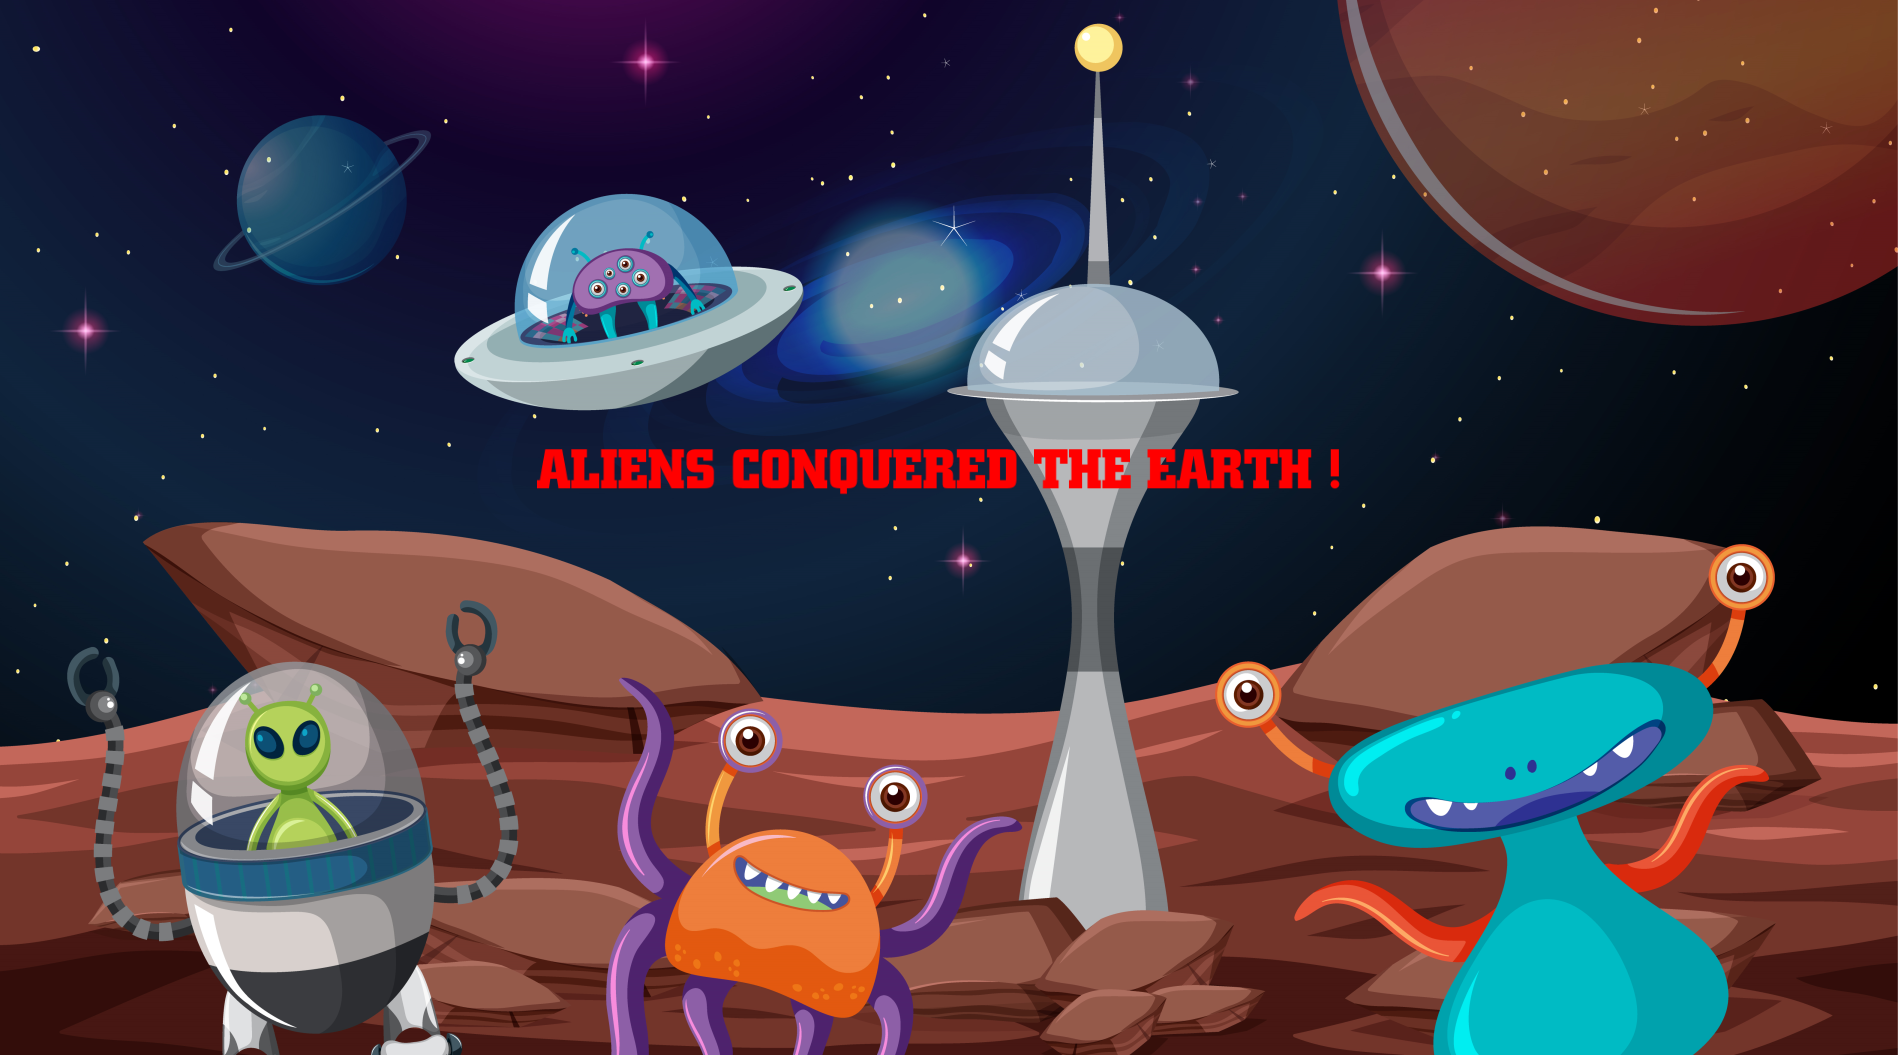
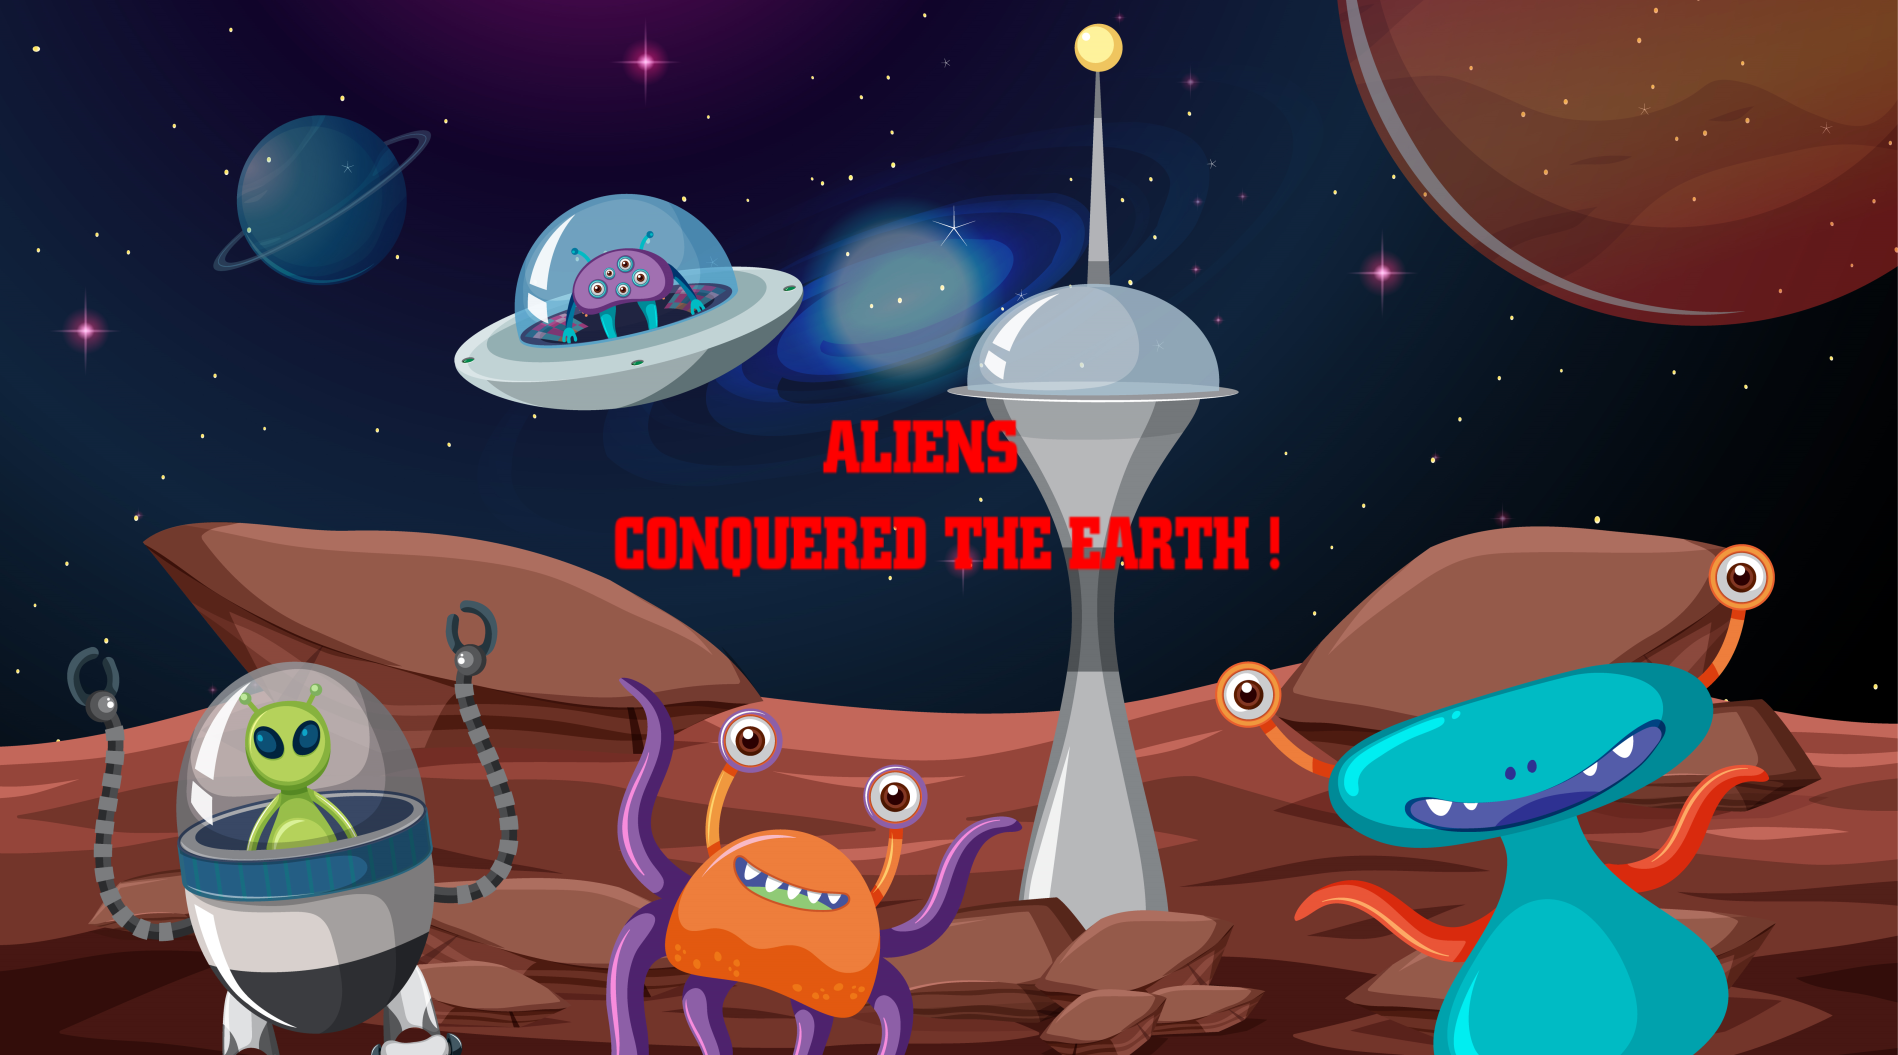
mobile adaptation

Changed region(s): [[0.2798, 0.3943, 0.715, 0.546]]

diff --git a/src/components/Final.js b/src/components/Final.js
@@ -9,14 +9,14 @@ function Final(props) {
         <>
             {props.final === 'win' && 
                 <Fade top>
-                    <div style={{ width: 800 / coeff, height: 450, borderRadius: 10, backgroundImage: `url(../../images/win.png)`,
-                    backgroundSize: 'cover', backgroundPosition: 'top center', position: 'absolute', top: -490, left: 50 / coeff}}></div>
+                    <div style={{ width: 680 / coeff, height: 450, borderRadius: 10, backgroundImage: `url(../../images/win.png)`,
+                    backgroundSize: 'cover', backgroundPosition: 'top center', position: 'absolute', top: -490, left: 20 / coeff}}></div>
                 </Fade>}
             
             {props.final === 'loose' && 
                 <Fade top>
-                    <div style={{ width: 800 / coeff, height: 450, borderRadius: 10, backgroundImage: `url(../../images/loose.png)`,
-                    backgroundSize: 'cover', backgroundPosition: 'center center', position: 'absolute', top: -490, left: 50 / coeff}}></div>
+                    <div style={{ width: 680 / coeff, height: 450, borderRadius: 10, backgroundImage: `url(../../images/loose.png)`,
+                    backgroundSize: 'cover', backgroundPosition: 'center center', position: 'absolute', top: -490, left: 20 / coeff}}></div>
                 </Fade>}
         </>        
     );

diff --git a/src/components/Engine.js b/src/components/Engine.js
@@ -26,7 +26,7 @@ export function Engine() {
     let lifes = 5; 
 
     // Window adaptation    
-    window.innerWidth < 900 ? dispatch(setCoeff(2)) : dispatch(setCoeff(1));    
+    window.innerWidth < 800 ? dispatch(setCoeff(2)) : dispatch(setCoeff(1));    
     
     // Aliens appear
     const aliensStart = () => {
@@ -110,9 +110,9 @@ export function Engine() {
     destroyMissilesArray.length > 0 && missilesDestroy(destroyMissilesArray);      
 
     return (
-        <div style={{ margin: '0 auto', position: 'relative', width: '900px' }}>                                      
+        <div style={{ margin: '0 auto', position: 'relative', width: 720 / coeff }}>                                      
             {pending && 
-                <h1 className='start' style={{ position: 'absolute', top: -500, left: 625 - 225 * coeff, fontSize: 48, color: 'red', zIndex: 10 }} 
+                <h1 className='start' style={{ position: 'absolute', top: -500, left: 490 - 180 * coeff, fontSize: 48, color: 'red', zIndex: 10 }} 
                 onClick={() => aliensStart()}>Start</h1>              
             }
 

diff --git a/src/components/Score.js b/src/components/Score.js
@@ -6,13 +6,13 @@ function Score() {
     const coeff = useSelector((state) => state.adaptive.value);
 
     return (
-        <>
+        <div style={{ margin: '0 auto', width: 720 / coeff }}>
             <div className='title' style={{ marginTop: 10, textAlign: 'center', fontSize: 36, fontWeight: 'bold' }}>ALIEN ATTACK</div>
-            <div style={{ margin: '0 auto', width: 900 / coeff, display: 'flex', justifyContent: 'space-between' }}>
+            <div style={{ margin: '0 auto', width: 720 / coeff, display: 'flex', justifyContent: 'space-between' }}>
                 <div style={{ marginLeft: '20px', fontSize: 24 }}>Lifes left: {scoreNow.lifes} </div>
                 <div style={{ marginRight: '20px', fontSize: 24 }}>Score: {scoreNow.score}</div>    
             </div>
-        </>        
+        </div>        
     );
 }
 

diff --git a/src/features/cannon.js b/src/features/cannon.js
@@ -1,6 +1,6 @@
 import { createSlice } from '@reduxjs/toolkit';
 
-const initialStateValue = { position: 493 }
+const initialStateValue = { position: window.screen.width / 8 }
 
 export const cannonSlice = createSlice ({
     name: 'cannon',
@@ -10,7 +10,7 @@ export const cannonSlice = createSlice ({
             state.position > 20 && (state.position -= action.payload);           
         },
         moveRight: (state, action) => {
-            state.position < 850 / action.payload.coeff && (state.position += action.payload.move);            
+            state.position < 650 / action.payload.coeff && (state.position += action.payload.move);            
         },
         // fire: (state, action) => {
         //     state.value.fire = true;            

diff --git a/src/features/aliens.js b/src/features/aliens.js
@@ -16,7 +16,7 @@ export const aliensSlice = createSlice ({
             };                        
         },
         newAlien: (state, action) => {            
-            state.push({key: key, range: Math.floor(Math.random() * (800 / action.payload)), decrease: 0, outlook: Math.floor(Math.random() * 3)});            
+            state.push({key: key, range: Math.floor(Math.random() * (650 / action.payload)), decrease: 0, outlook: Math.floor(Math.random() * 3)});            
             key++;            
         },
         destroyAliens: (state, action) => {

diff --git a/src/components/Screen.js b/src/components/Screen.js
@@ -9,7 +9,7 @@ function Screen() {
     const coeff = useSelector((state) => state.adaptive.value);
     
     return (
-        <div style={{ margin: '10px auto', width: 900 / coeff, height: 500, border: '3px solid black',
+        <div style={{ margin: '10px auto', width: 720 / coeff, height: 500, border: '3px solid black',
         borderRadius: 10, backgroundImage: `url(../../images/background.jpg)`, backgroundSize: 'cover', 
         backgroundPosition: 'center center', position: 'relative'
         }}>

diff --git a/src/components/Cannon.js b/src/components/Cannon.js
@@ -3,8 +3,7 @@ import { useSelector } from 'react-redux';
 
 function Cannon() {
     const cannon = useSelector((state) => state.cannon);
-    const coeff = useSelector((state) => state.adaptive.value);
-
+    
     return (
         <div style={{ width: 32, height: 50, borderRadius: 3, backgroundImage: `url(../../images/cannon.png)`,
         backgroundSize: 'contain', backgroundRepeat: 'no-repeat', position: 'absolute', bottom: 0, left: cannon.position

diff --git a/src/components/Aliens.js b/src/components/Aliens.js
@@ -3,8 +3,7 @@ import { useSelector } from 'react-redux';
 // import { useSelector } from '../';
 
 function Aliens(props) {
-    const aliens = useSelector((state) => state.aliens);
-    const coeff = useSelector((state) => state.adaptive.value);
+    const aliens = useSelector((state) => state.aliens);    
     
     if (aliens && aliens.length > 0) {
         return (
